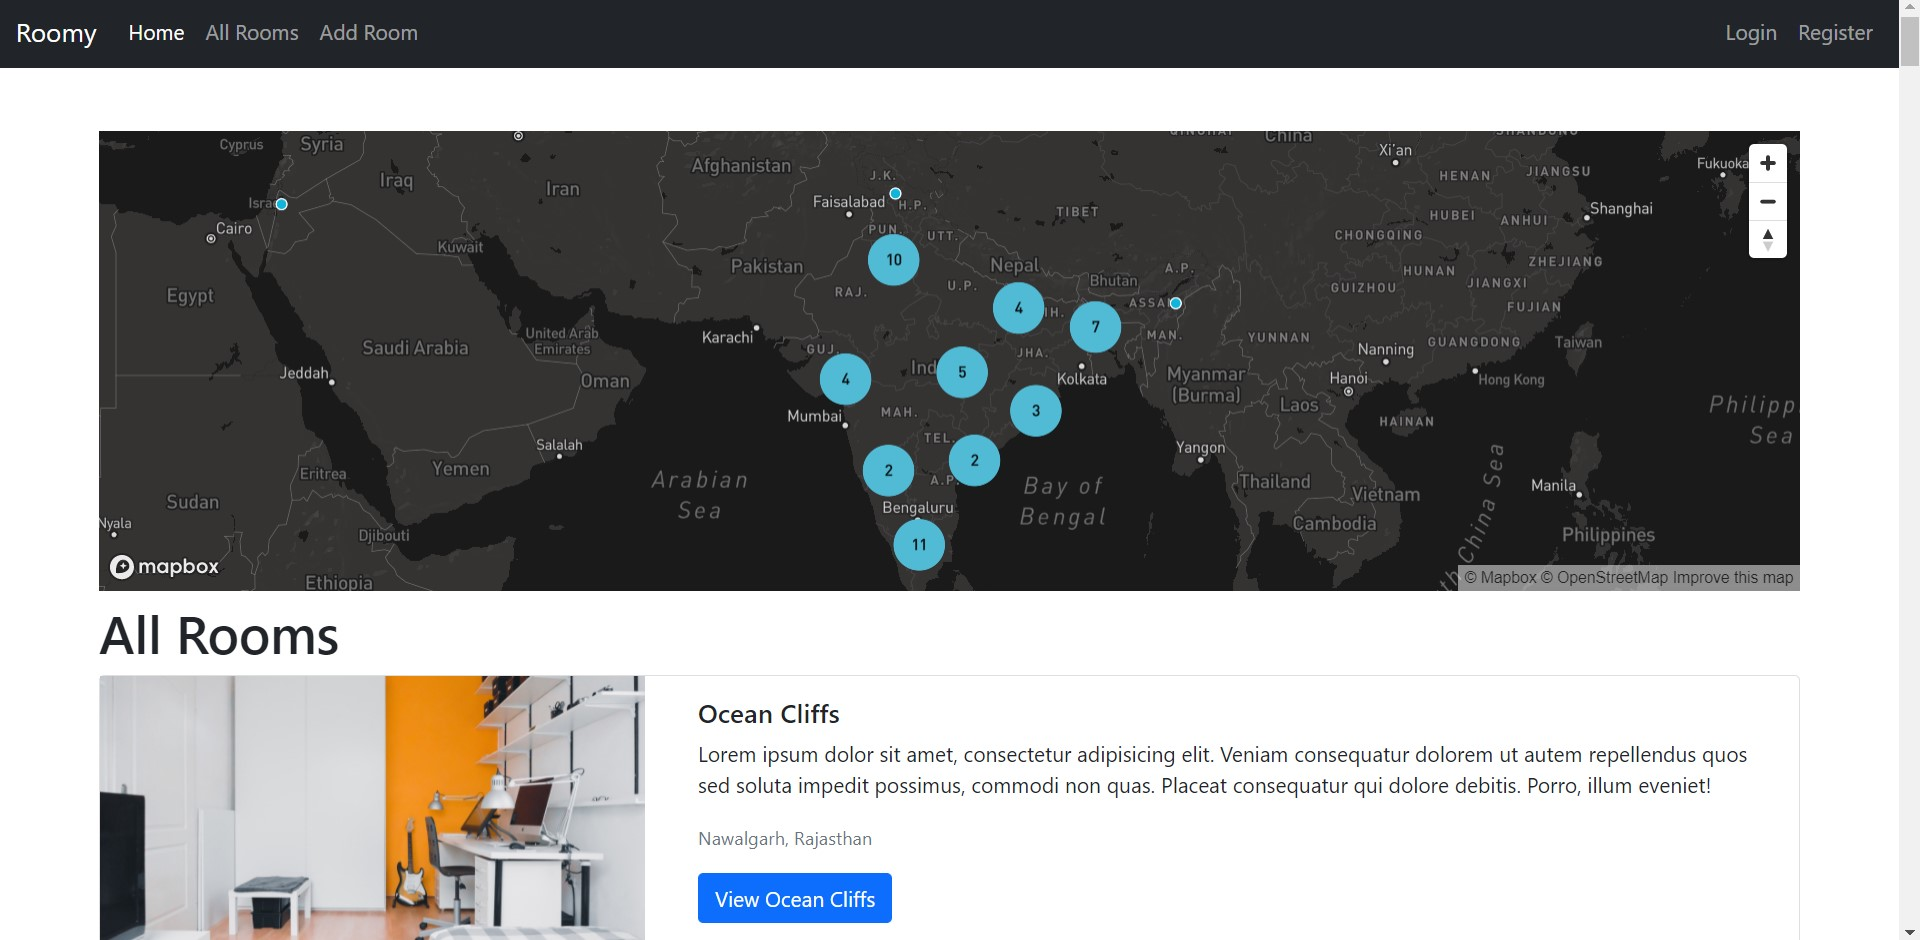
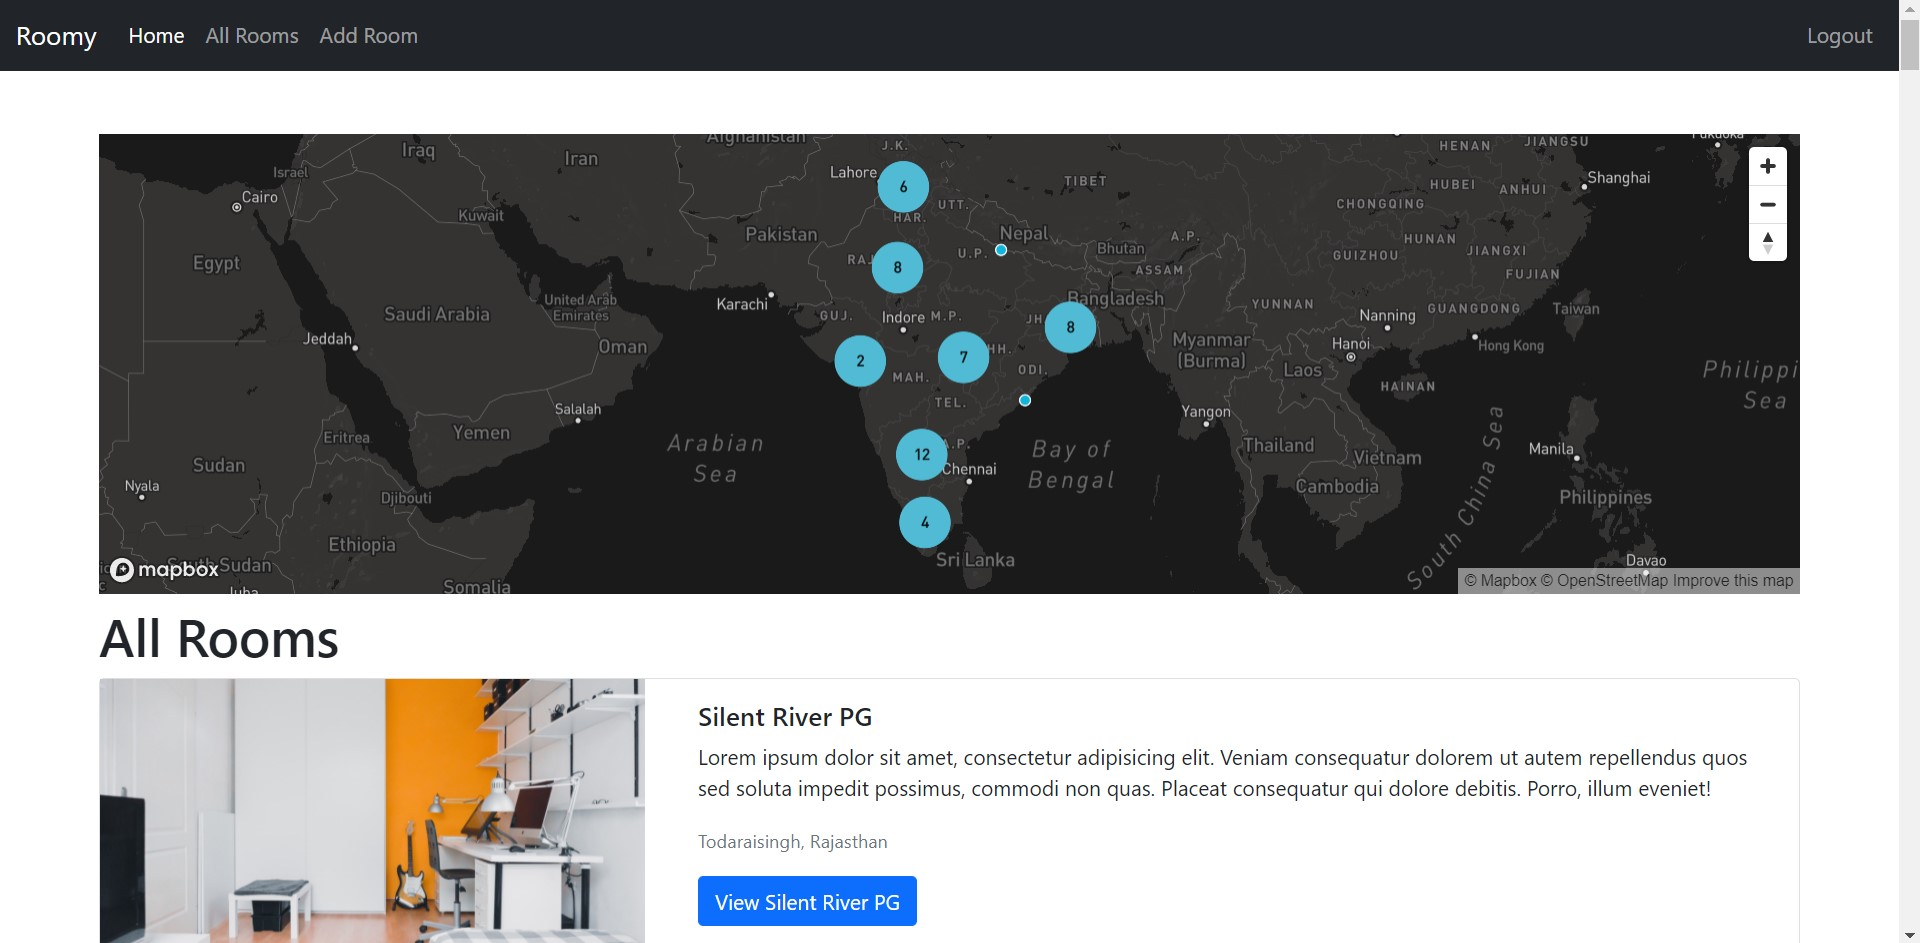
readme and seeds fixes

diff --git a/seeds/index.js b/seeds/index.js
@@ -39,7 +39,7 @@ const seedDB = async () => {
         const room = new Room({
             author: '6129fe4fe829830016e004e5',
             location: location,
-            PGname: `${sample(descriptors)} ${sample(places)}`,
+            PGname: `${sample(descriptors)} ${sample(places)} PG`,
             // image: 'https://source.unsplash.com/collection/3214295/1280x720',
             description: 'Lorem ipsum dolor sit amet, consectetur adipisicing elit. Veniam consequatur dolorem ut autem repellendus quos sed soluta impedit possimus, commodi non quas. Placeat consequatur qui dolore debitis. Porro, illum eveniet!',
             price,

diff --git a/seeds/seedHelpers.js b/seeds/seedHelpers.js
@@ -24,11 +24,10 @@ module.exports.places = [
     'Village',
     'Canyon',
     'Pond',
-    'Group Camp',
-    'Horse Camp',
+    'Group',
+    'Horse',
     'Ghost Town',
-    'Camp',
-    'Dispersed Camp',
+    'Dispersed',
     'Backcountry',
     'River',
     'Creek',
@@ -37,8 +36,8 @@ module.exports.places = [
     'Spring',
     'Bayshore',
     'Sands',
-    'Mule Camp',
-    'Hunting Camp',
+    'Mule',
+    'Hunting',
     'Cliffs',
     'Hollow'
 ]
